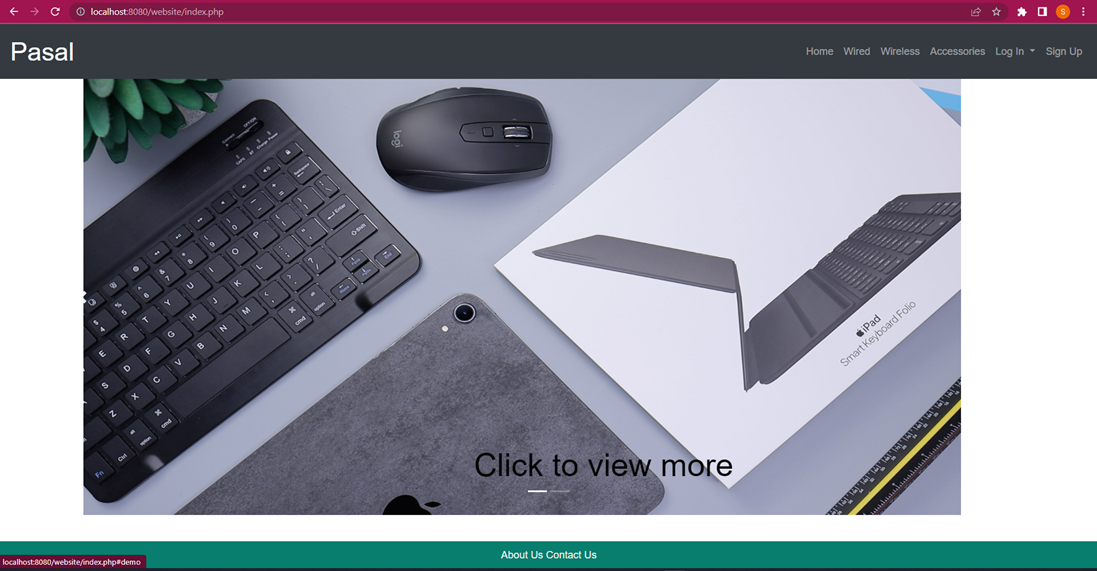
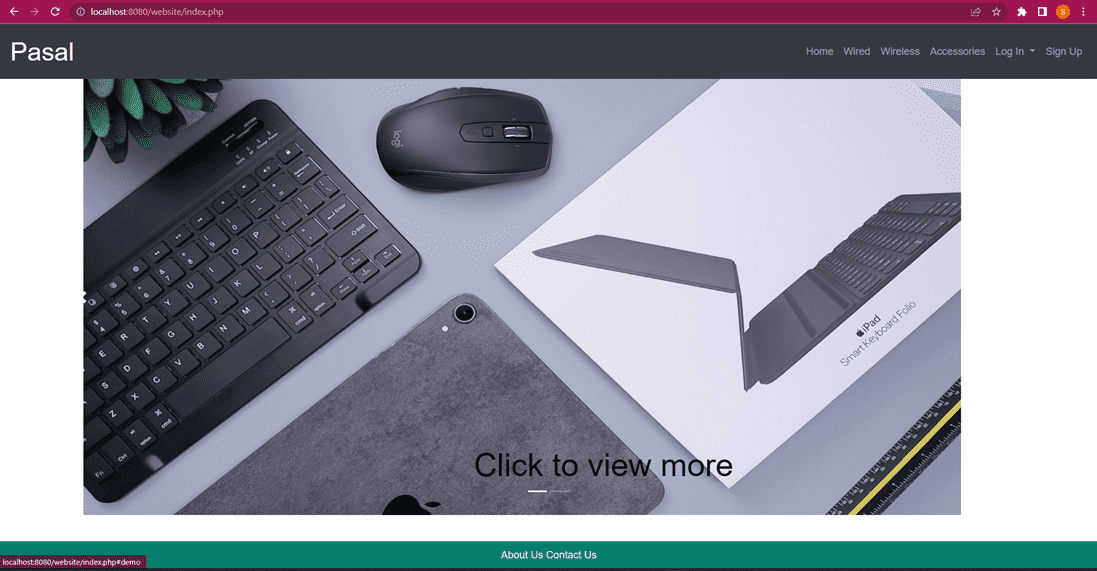
mobile view updated

diff --git a/src/styles/global.css b/src/styles/global.css
@@ -76,12 +76,19 @@ body {
     .content {
         padding: 15px 25px !important;
     }
+    .project-grid-name {
+        font-size: 1.1em !important;
+    }
+    .containertime::after {
+        right: -14px !important;
+    }
+    
 }
 
 @media screen and (max-width: 768px) {
     .logo {
-        height: 3em;
-        margin: 20px 40px;
+        height: 4em;
+        margin: 10px 40px;
     }
 
     .nav-link>svg {
@@ -118,11 +125,21 @@ body {
         height: 40vw !important;
         width: 40vw !important;
     }
+    .project-grid-name {
+        font-size: 1em !important;
+    }
+    .project-grid-desc {
+        font-size: 0.8em !important;
+    }
+    .copyright {
+        font-size: 0.6rem !important;
+        left: 2px !important;
+    }
 }
 
 @media screen and (max-width: 468px) {
     .logo {
-        height: 2em;
+        height: 4em;
         margin: 10px 20px;
     }
 
@@ -159,6 +176,12 @@ body {
     .circular-slant-pattern::before{
         height: 60vw !important;
         width: 60vw !important;
+    }
+    .project-grid-name {
+        font-size: 0.8em !important;
+    }
+    .project-grid-desc {
+        font-size: 0.6em !important;
     }
 }
 
@@ -265,8 +288,9 @@ body {
 .copyright {
     position: absolute;
     bottom: 50px;
-    left: 20px;
+    left: -2px;
     z-index: 16;
+    font-size: 0.8rem;
     transform-origin: bottom left;
     transform: rotate(-90deg) translateY(100%);
     white-space: nowrap;
@@ -359,6 +383,9 @@ body {
 
 .primary-text {
     color: var(--dark-text-color)
+}
+.primary-dark-text{
+    color : var(--primary-dark-bg-color);
 }
 
 .primary-border {
@@ -621,19 +648,19 @@ body {
 
     /* Place the timelime to the left */
     .timeline::after {
-        left: 31px;
+        left: 20px;
     }
 
     /* Full-width containertimes */
     .containertime {
         width: 100%;
-        padding-left: 70px;
-        padding-right: 25px;
+        padding-left: 40px;
+        padding-right: 10px;
     }
 
     /* Make sure that all arrows are pointing leftwards */
     .containertime::before {
-        left: 60px;
+        left: 30px;
         border: medium solid white;
         border-width: 10px 10px 10px 0;
         border-color: transparent white transparent transparent;
@@ -642,7 +669,7 @@ body {
     /* Make sure all circles are at the same spot */
     .left::after,
     .right::after {
-        left: 15px;
+        left: -2px;
     }
 
     /* Make all right containertimes behave like the left ones */
